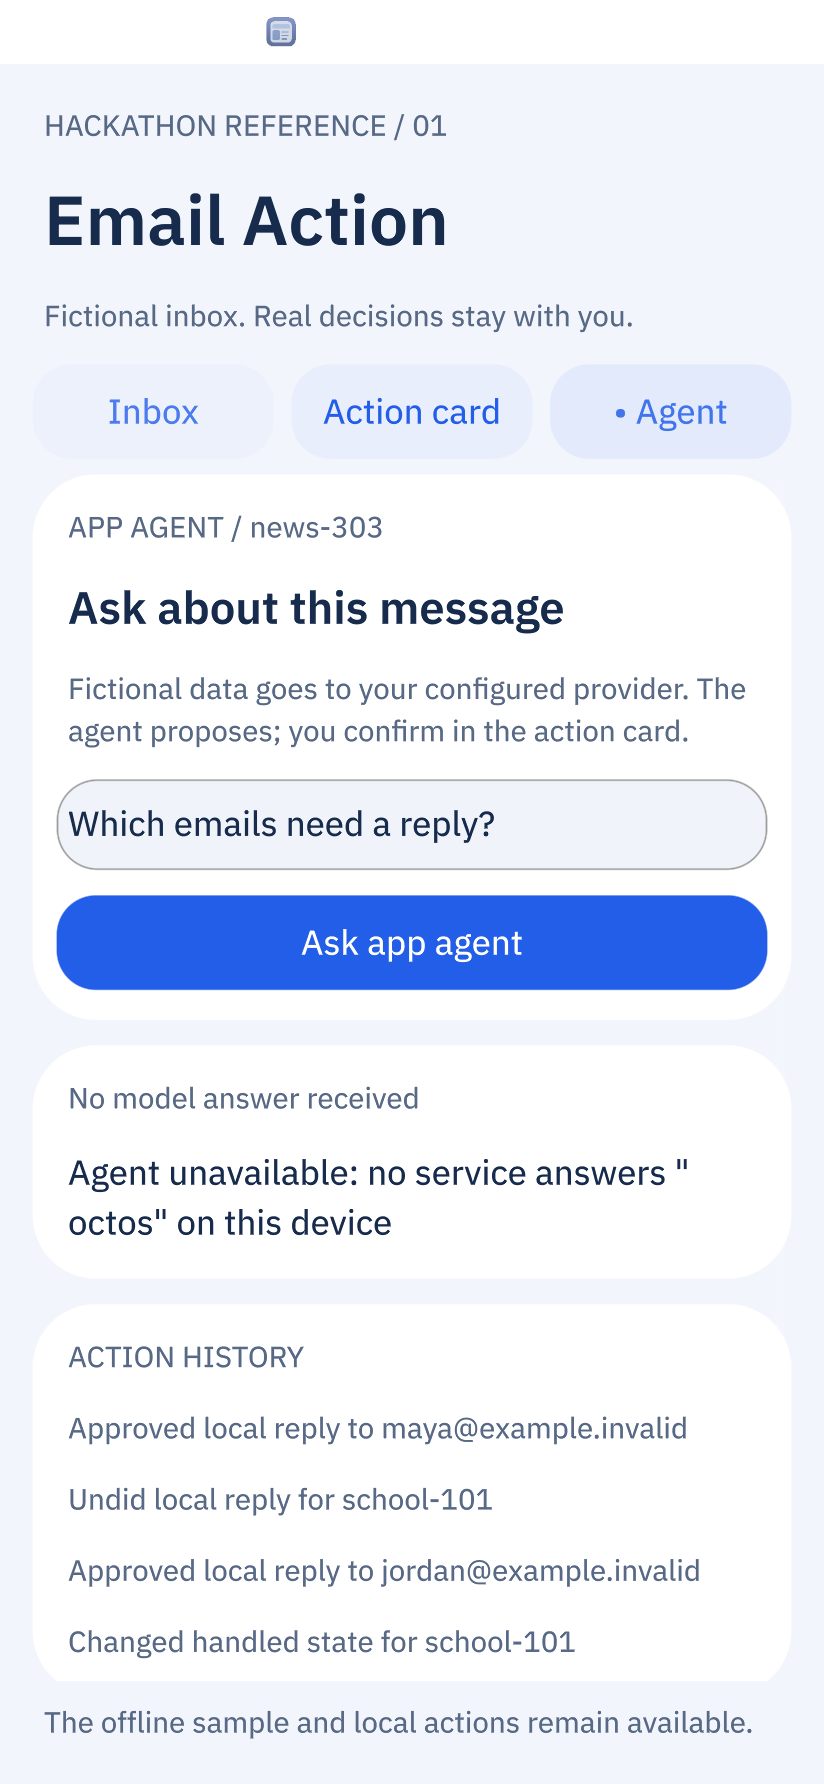
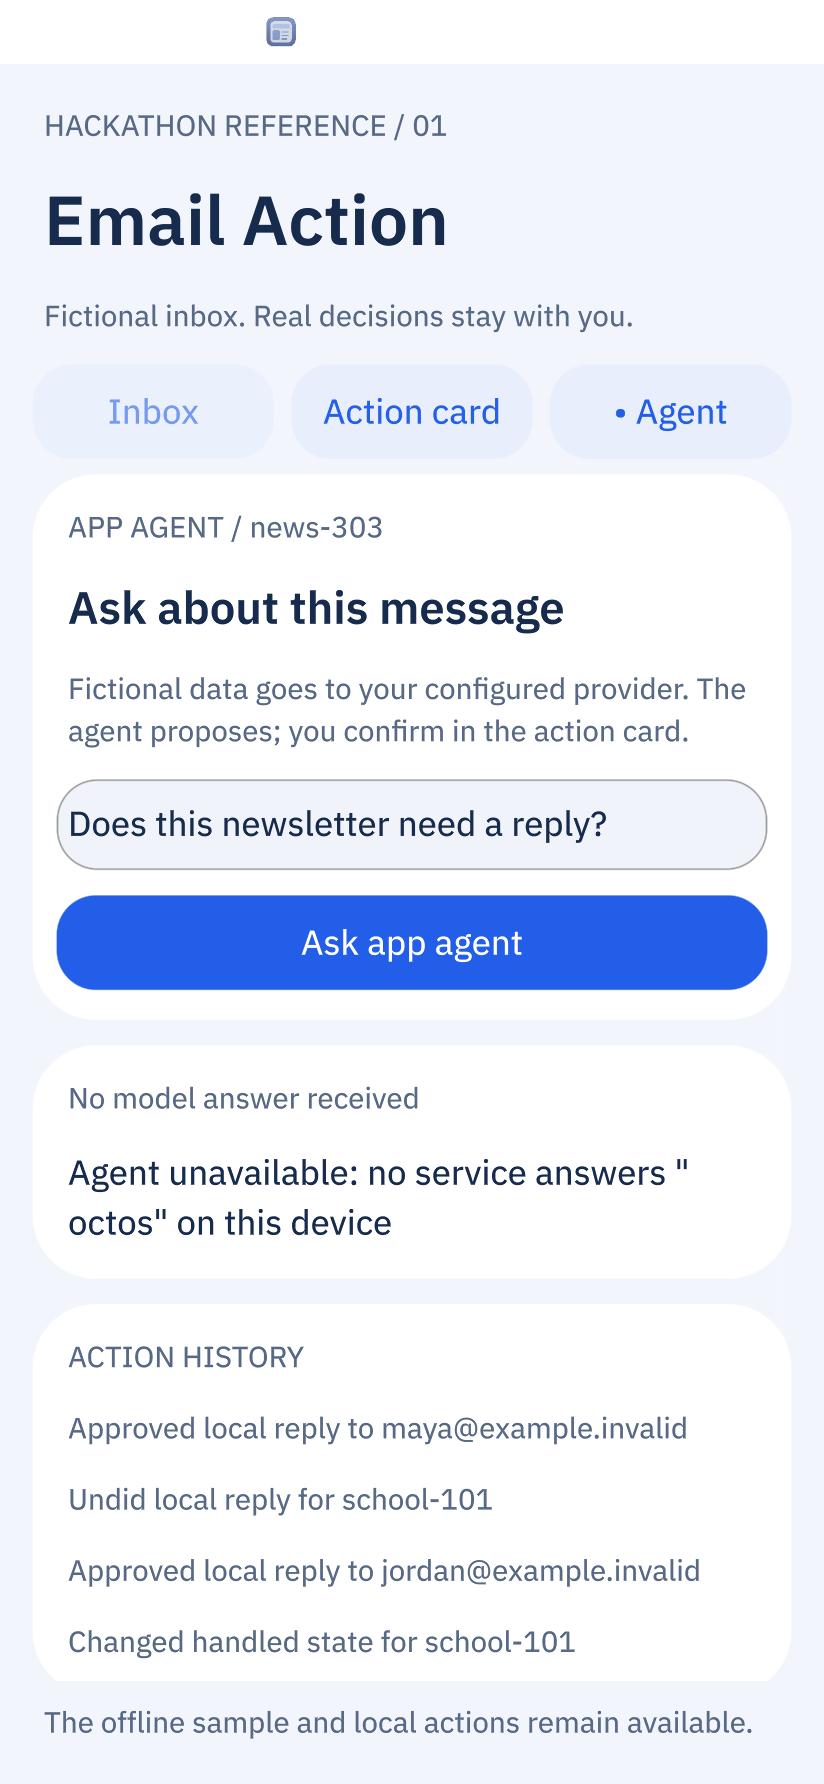
Preserve submitted agent questions and record final native evidence

diff --git a/examples/agentic-hackathon/scripts/verify_native.py b/examples/agentic-hackathon/scripts/verify_native.py
@@ -166,6 +166,7 @@ def email(app):
     app.fill('question', 'Does this newsletter need a reply?')
     app.tap('ask_agent')
     app.expect('Agent unavailable:', 'honest standalone host error')
+    app.expect('Does this newsletter need a reply?', 'submitted question survives host error')
     app.capture('04-agent-unavailable.png')
     before = app.state()
     app.clean_logs(); app.close(); app.launch()
@@ -174,6 +175,7 @@ def email(app):
     app.expect('A later unsent edit', 'edited draft survives restart')
     app.tap('draft_live')
     app.expect('Agent unavailable:', 'draft request reports unavailable host')
+    app.expect('Draft a reply to Maya Chen', 'draft request identifies selected sender')
     check(app.state()['drafts'][0] == 'A later unsent edit', 'email: failed agent draft preserves human edit')
     app.tap('inbox_tab')
     app.tap('reset_demo')
@@ -227,6 +229,7 @@ def meeting(app):
     app.fill('question', 'Is there any shared time available?')
     app.tap('ask_agent')
     app.expect('Agent unavailable:', 'honest standalone host error')
+    app.expect('Is there any shared time available?', 'submitted question survives host error')
     app.capture('04-agent-unavailable.png')
     app.tap('plan_tab')
     app.tap('reset_demo')

diff --git a/examples/agentic-hackathon/validation/README.md b/examples/agentic-hackathon/validation/README.md
@@ -1,6 +1,6 @@
 # Desktop evidence — 2026-10-03
 
-**48/48 native checks passed.** [The report](desktop-native.json) records
+**51/51 native checks passed.** [The report](desktop-native.json) records
 each assertion, injected input and SHA-256 of every final bundle file.
 [Provenance](provenance.json) identifies the runtime revisions and test driver.
 This is a macOS release build using the actual Makepad Metal renderer in a
@@ -31,7 +31,7 @@ make old evidence match changed source.
   refusal without a write, successful alternative, duplicate prevention,
   persistence, targeted undo, no-slot state and reset.
 - Both: blank questions, explicit standalone-host agent-unavailable results,
-  clean native runtime logs and final App Hub checks. File reads inspect the
+  preserved submitted questions, clean native runtime logs and final App Hub checks. File reads inspect the
   local action results; a screen label alone is not considered a saved action.
 - All eight bundle captures were visually inspected. Review screens show the
   recipient or attendees, full proposal and confirmation controls. Receipt
@@ -60,7 +60,7 @@ foreground/background colors. Reusing a scroller retained its offset between
 pages and hid confirmation details; each page now owns a separate scroller.
 Tests also caught the need to preserve the committed reply in its receipt
 after later draft edits and to derive the inbox count from handled state.
-The final run includes those repairs. Earlier raw failures remain in the
+Final screenshot review also caught the question field reverting to its default after an agent error; submitted questions now remain visible for review and retry. The final run includes those repairs. Earlier raw failures remain in the
 local ignored build directories.
 
 ## Still unverified
@@ -81,7 +81,7 @@ notifications or glance cards.
 
 ## 中文说明
 
-**48/48 桌面原生检查通过**，包括真实控件输入、文件结果、重启、冲突复核、
+**51/51 桌面原生检查通过**，包括真实控件输入、文件结果、重启、冲突复核、
 防重复、撤销、重置，以及 Agent 不可用时保留人工草稿。8 张截图均已打开审查。
 测试由 Codex 驱动 Makepad 原生工具执行，没有由应用中的模型操作测试。
 报告记录最终 bundle 的 SHA-256；运行时版本与测试脚本哈希见 provenance.json。

diff --git a/examples/agentic-hackathon/README.zh-CN.md b/examples/agentic-hackathon/README.zh-CN.md
@@ -114,7 +114,7 @@ tools/octo check examples/agentic-hackathon/meeting-planner/bundle
 可按快速上手文档通过 `OCTO_HUB`、`OCTO_CARD_HOST` 和 `OCTOSENSE_APP_HUB` 选择已准备的运行时。
 
 **当前证据：** App Hub `927f2fe`、Makepad `c155f61d`、Octoscript-Makepad `2cc5ef37` 的 release 构建，
-桌面原生检查 [**48/48** 通过](validation/README.md)，覆盖本地行为和 Agent 不可用路径。
+桌面原生检查 [**51/51** 通过](validation/README.md)，覆盖本地行为和 Agent 不可用路径。
 真实模型回答、Shell Agent 文件读取和 Android 是单独的待验证项。
 发布者身份、支持及隐私网址需参赛者自行填写；未签名示例不是商店提交。
 

diff --git a/examples/agentic-hackathon/README.md b/examples/agentic-hackathon/README.md
@@ -139,7 +139,7 @@ refreshes real screenshots in each bundle. Inspect those images after running;
 assertions alone cannot prove legibility. `OCTO_HUB`, `OCTO_CARD_HOST` and
 `OCTOSENSE_APP_HUB` can select an already prepared runtime as in the quickstart.
 
-**Current evidence:** [48/48 desktop native checks passed](validation/README.md) with App Hub `927f2fe`,
+**Current evidence:** [51/51 desktop native checks passed](validation/README.md) with App Hub `927f2fe`,
 Makepad `c155f61d`, Octoscript-Makepad `2cc5ef37`, in a release build. This covers
 local behavior and the agent-unavailable path. Live model responses, shell
 peer reads and Android remain separate, pending checks. Publisher identity
